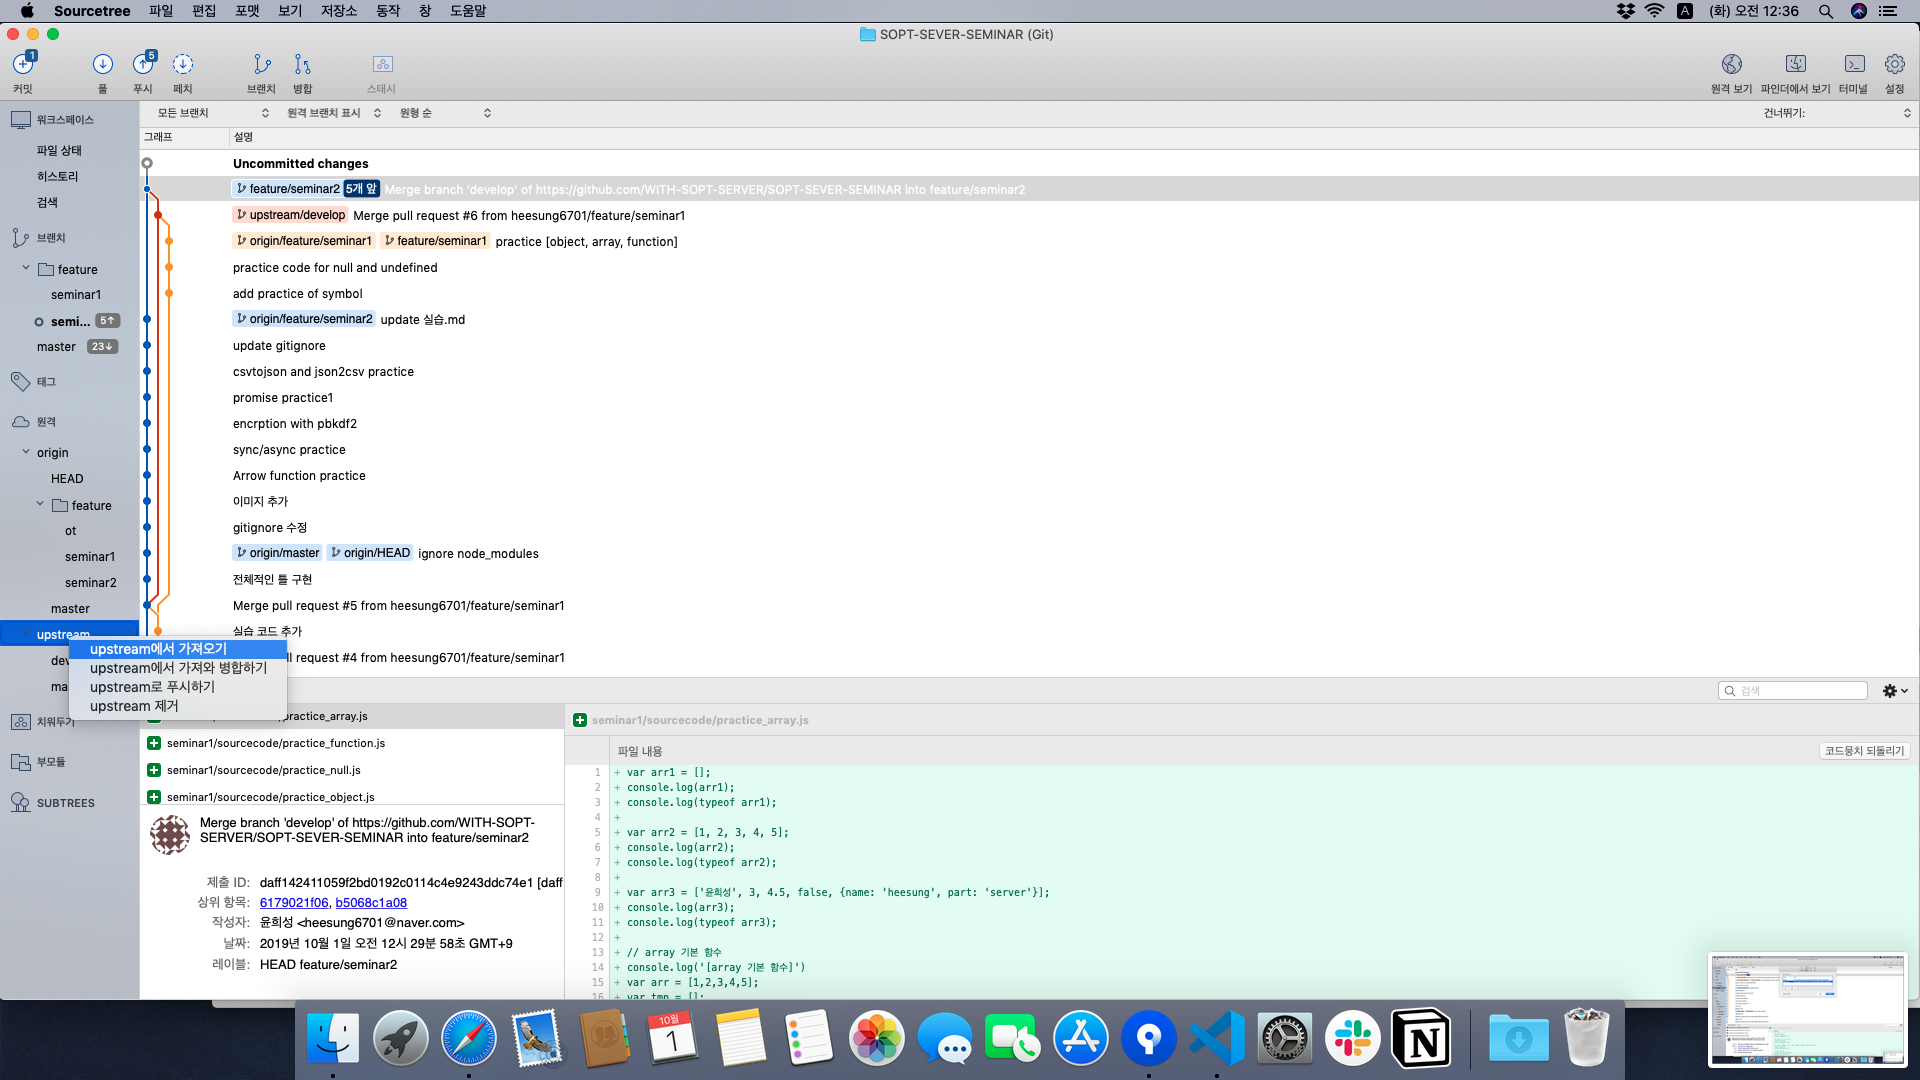
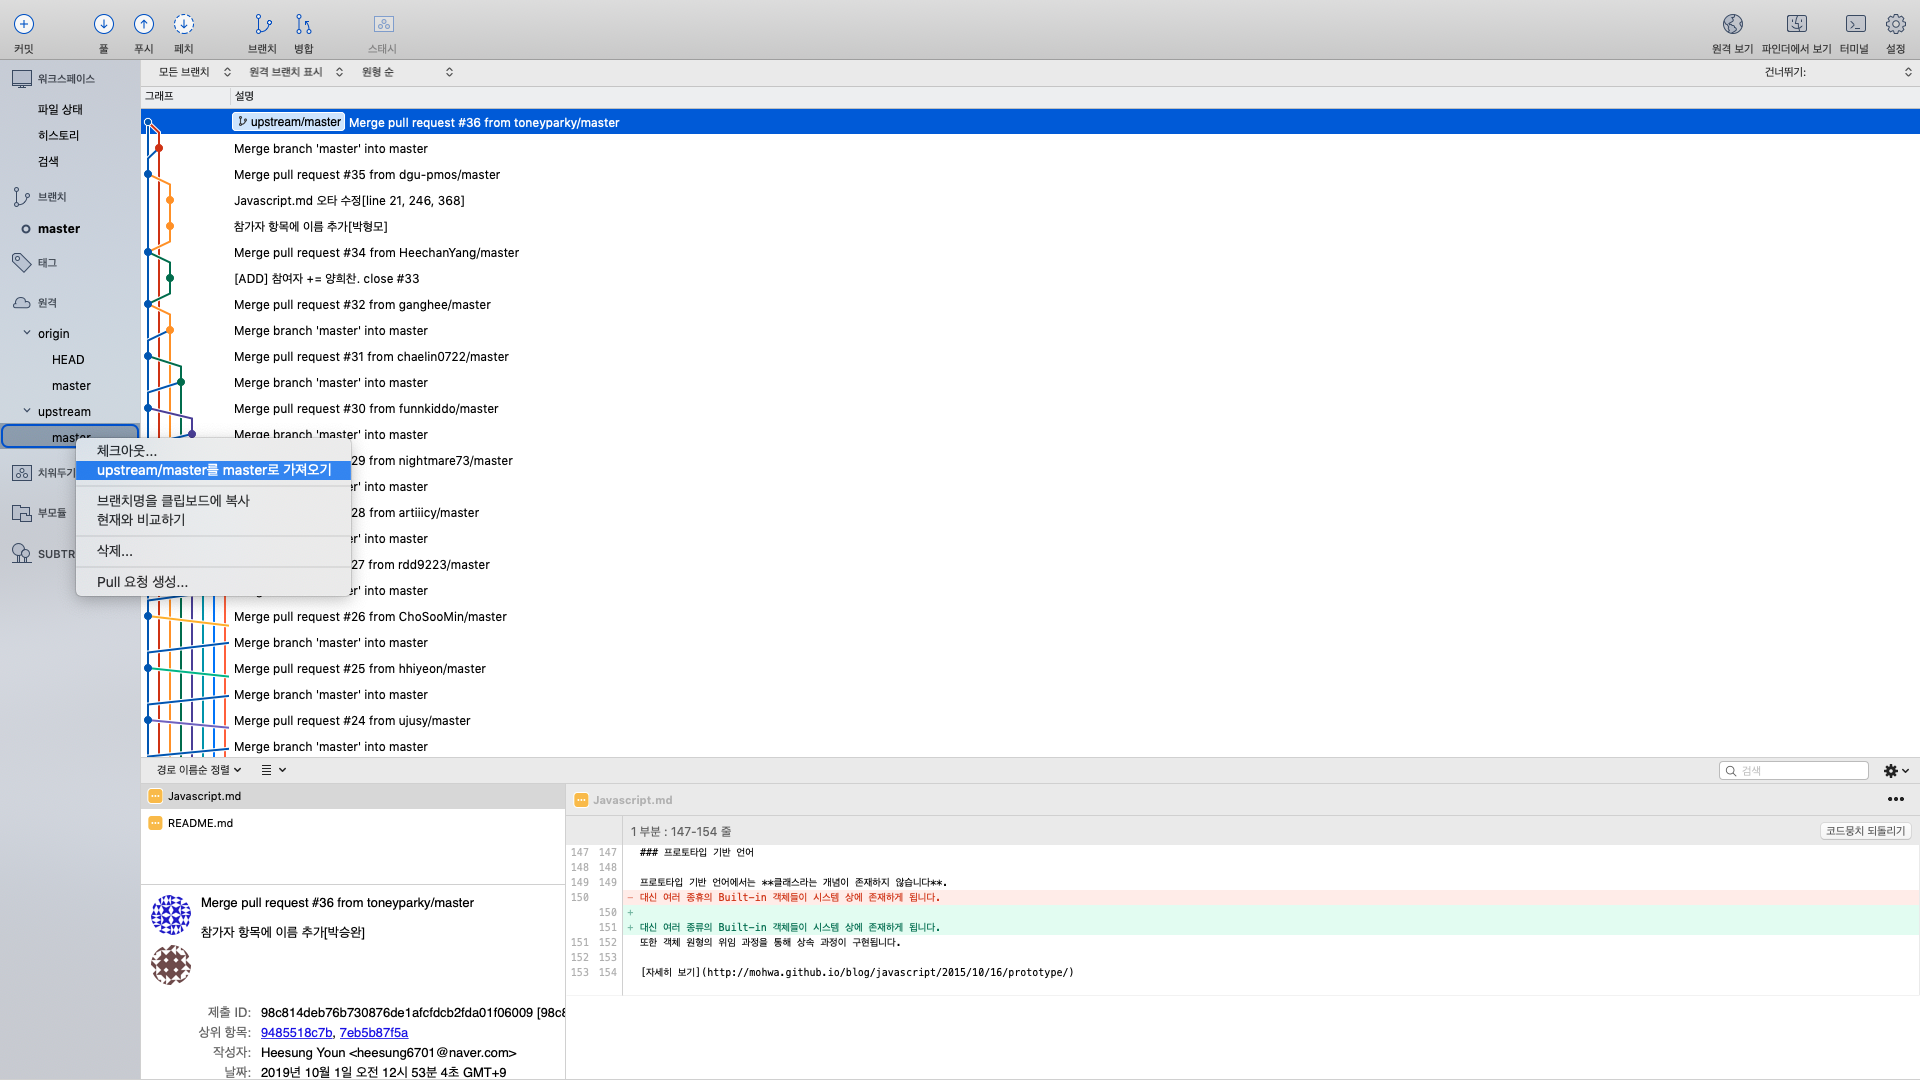
원격 저장소에서 가져오기 내용 오류 수정

diff --git a/seminar2/git 내려받기 실습.md b/seminar2/git 내려받기 실습.md
@@ -30,10 +30,14 @@ Local(컴퓨터)에서 개인 Repository에서만 pull을 받았다면 이제는
 
 ![screenSH](./img/screensh_sourcetree_settings_remote.png)
 
-5. 확인을 눌러주면 왼쪽 아래에 원격 아래의 upstream이 생긴것을 확인할 수 있습니다. 그리고 우 클릭을 하면 upstream에서 가져오기 버튼이 있습니다.
+5. 확인을 눌러주면 왼쪽 아래에 원격 아래의 upstream이 생긴것을 확인할 수 있습니다.
+
+> 만약 upstream 아래에 아무것도 없다면 (우클릭)->(upstream 에서 가져오기) 를 클릭하면 최신 버전의 원격 저장소 정보를 확인할 수 있습니다.
+
+master를 우 클릭을 하면 `upstream/master를  master로 가져오기`를 클릭해주면 공용 저장소에서 Local 저장소로 변경사항이 적용되게 됩니다.
 
 ![screenSH](./img/screensh_get_from_upstream.png)
 
 
-6. upstream에서 가져오기를 한다면 서버에서 작업한 내용이 local 공간에 적용되는 것을 확인 할 수 있습니다.
+6. 이제 local 저장소에서 공용 저장소에 적용된 내용이 업데이트 된 것을 확인할 수 있습니다.
 
